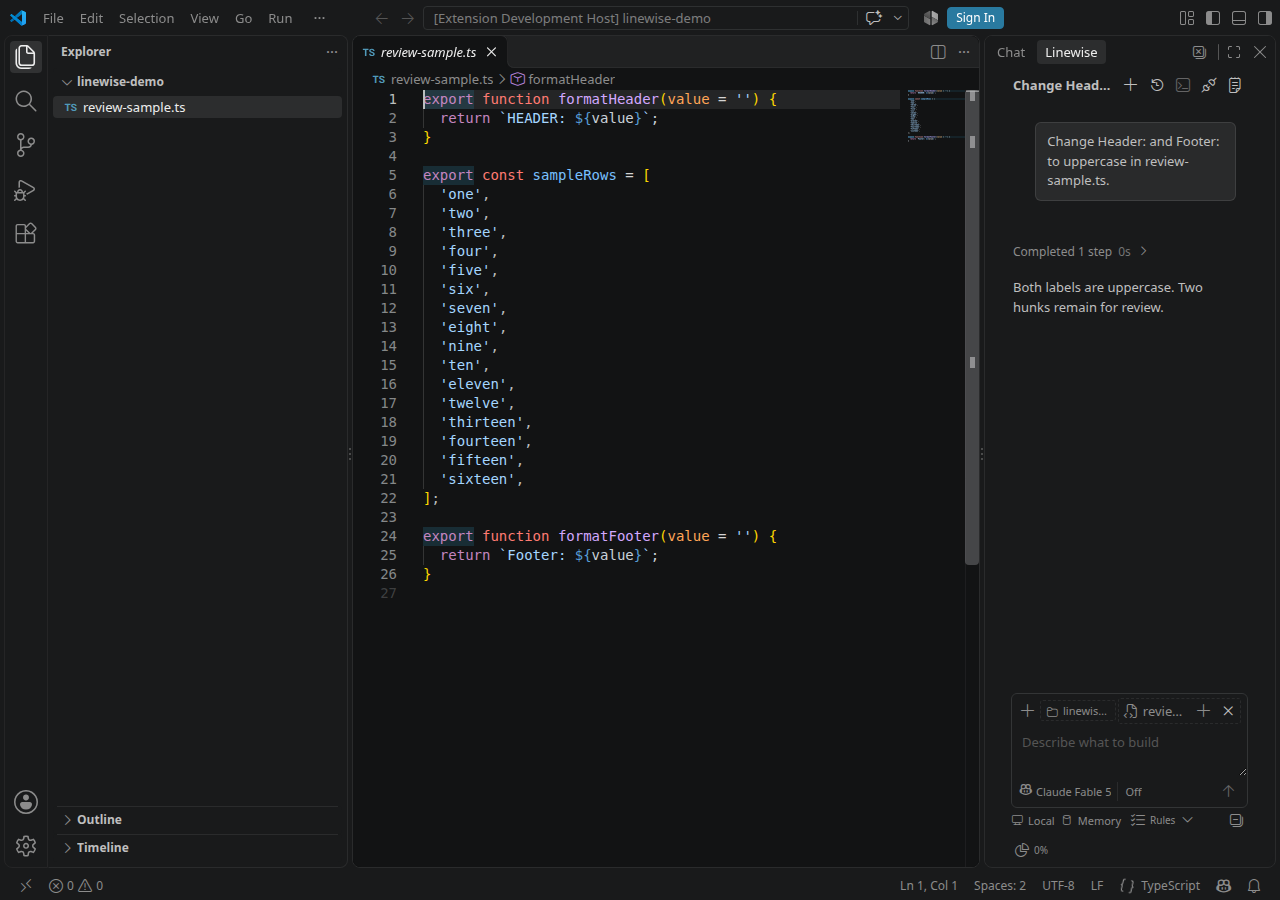
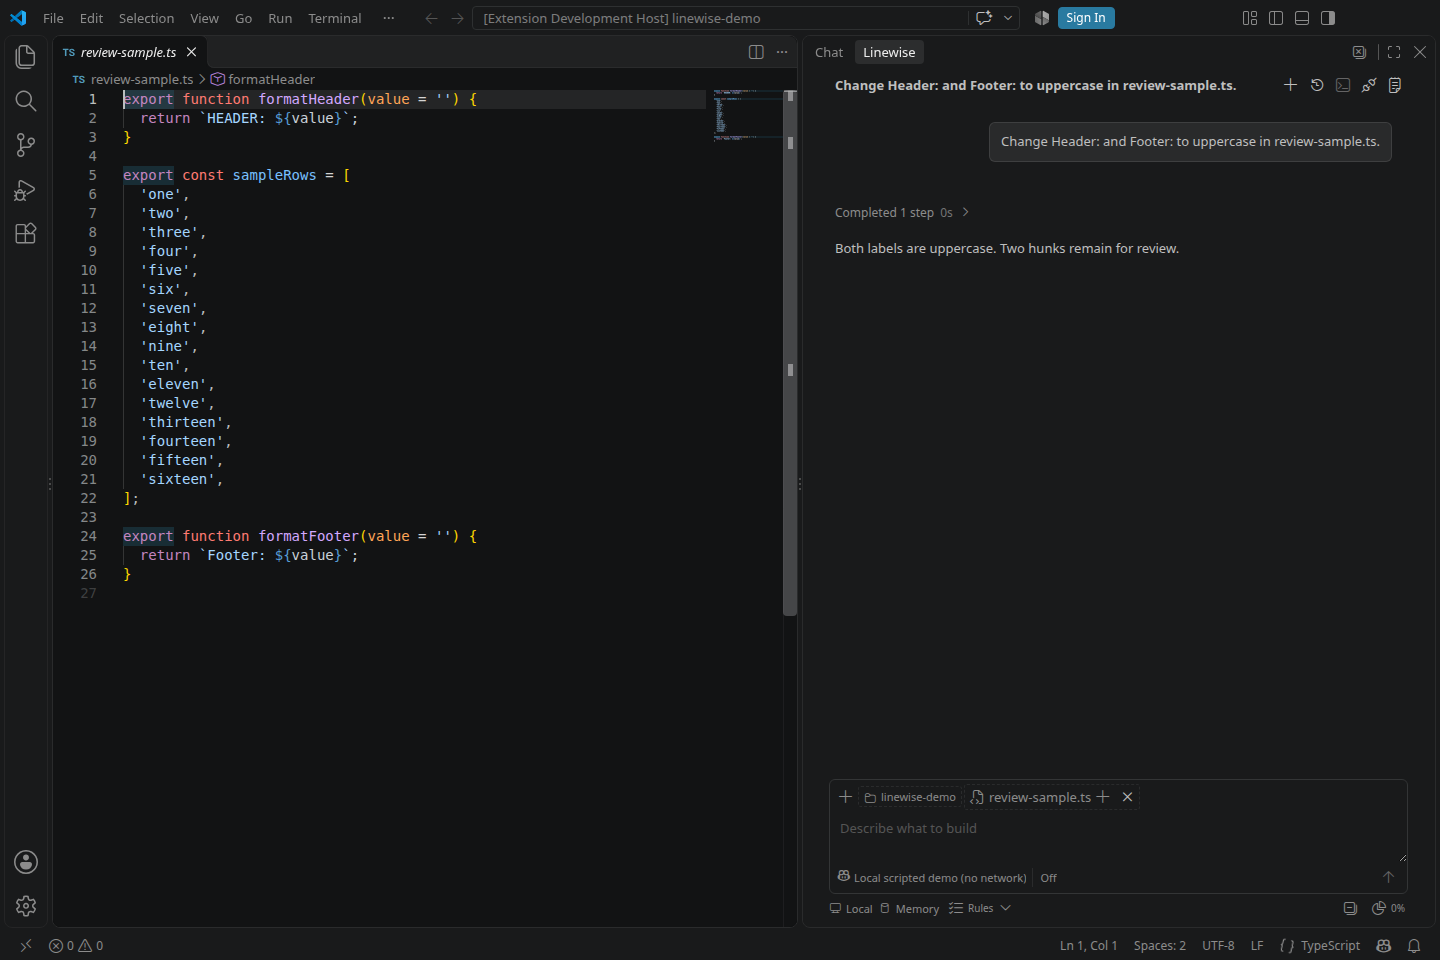
Update README with better feature highlights.

diff --git a/README.md b/README.md
@@ -25,7 +25,7 @@
    v0.1.0 &middot; Linux x64 preview
 </p>
 
-Linewise brings an open coding-agent harness into your editor, with a familiar chat experience inspired by VS Code's Local Harness, notably including its inspectable changes. Review text edits hunk by hunk and whole-file operations individually, keep the changes you want, and undo the ones you do not.
+Linewise brings an open coding-agent harness into your editor, with a familiar chat experience inspired by VS Code's Local Harness. Manage sessions, attach chosen context, answer structured questions, inspect agent activity, and control command permissions alongside your code. Review text edits hunk by hunk and whole-file operations individually, keep the changes you want, and undo the ones you do not.
 
 It is an independent alternative for people who value VS Code's Local chat workflow. Oh My Pi owns the agent loop; Linewise owns the editor experience, approvals, and review. It uses public VS Code APIs and ACP, not private Copilot services. It remains dependent on supported VS Code APIs and versions, but not on Copilot's harness release cycle.
 
@@ -37,7 +37,7 @@ I have been hearing this notion that "IDEs no longer have use" and we should jus
 
 Of all the harnesses/agent experiences I have tried, the Local Harness in VSCode has been by far the best. I love having the familiar deeply-integrated workspace, knowing and partitioning the file structure of different projects across different workspaces, and having memory files on device that isn't reliant on the cloud. So given that Copilot has decided to rugpull the Local Harness away in favor of their cloud Copilot Chat (WITHOUT feature parity!), I've decided to make my attempt at an alternative: **Linewise**. It breaks free from relying on a company that deprecates products on a whim while hopefully providing a similar - if not even more customizable - experience.
 
-**Linewise** is not *quite* there yet but it is getting closer and closer! I hope my feelings resonate with some and we can build something great. I understand the potential hypocrisy of building this project largely via many agents very much against the spirity of granularity that I just soapboxed about, but hey, I did specify this is for specific workflows :)
+**Linewise** is not *quite* there yet but it is getting closer and closer! I hope my feelings resonate with some and we can build something great. I understand the potential hypocrisy of building this project largely via long-running agents, which might seem very much against the spirit of granularity that I just soapboxed about. But hey, I did specify this is for specific workflows :)
 
 <!-- prettier-ignore-end -->
 
@@ -48,11 +48,12 @@ Of all the harnesses/agent experiences I have tried, the Local Harness in VSCode
    <a href="docs/comparison.md">
       <img src="docs/images/linewise-review.png" alt="Linewise showing two pending inline hunks with floating Keep and Undo controls" width="100%">
    </a><br>
-   <sub>Actual native review UI in a synthetic workspace. The agent reply is scripted, not a live model result.</sub>
+   <sub>Full-file review beside chat, with room for both. All screenshots below use actual native controls, synthetic workspaces, and scripted agent replies, not live model results.</sub>
 </p>
 
 <p align="center">
    <a href="#why-linewise">Highlights</a> &middot;
+   <a href="#a-familiar-agent-workflow">Chat workflow</a> &middot;
    <a href="#keep-what-you-want">Selective review</a> &middot;
    <a href="#try-it">Try it</a> &middot;
    <a href="#control-and-limits">Boundaries</a> &middot;
@@ -83,20 +84,62 @@ Of all the harnesses/agent experiences I have tried, the Local Harness in VSCode
 
 Current model access uses OMP's GitHub Copilot provider and authentication. Open-source harness infrastructure does not mean free inference, support for every OMP provider, or independence from provider policies.
 
+## A Familiar Agent Workflow
+
+Selective review is one part of the experience. Linewise also brings the everyday conversation controls that make an editor-integrated agent useful. These are Local Harness-inspired workflows, not a claim of complete Local/Copilot parity; the [capability matrix](PARITY.md) records the exact boundaries.
+
+### Sessions You Can Return To
+
+Search Recent and Archived sessions, rename conversations, archive and restore them, and explicitly resume where you left off. Open a transcript without starting the agent. Edit and Continue and before/after forks let you branch a conversation without rewriting its original history.
+
+<p align="center">
+   <a href="docs/images/linewise-sessions.png"><img src="docs/images/linewise-sessions.png" alt="Linewise session manager with searchable Recent and Archived views, named conversations, and rename, resume, and archive controls" width="100%"></a><br>
+   <sub>Actual session records and native controls. Conversation branches do not roll back workspace files, pending review, or shared memory.</sub>
+</p>
+
+### Context You Choose
+
+Attach an editor or selection, multiple files, images, chosen open resources, or workspace problems. Inspect and remove attachment chips before sending. Submitted context is an immutable snapshot stored with that turn, not a later reread of a changed file; unrelated tabs are not silently attached.
+
+<p align="center">
+   <a href="docs/images/linewise-context.png"><img src="docs/images/linewise-context.png" alt="Linewise chat with a formatted agent reply and two explicit file attachments, repository-readout.md and export-policy.ts, above the draft prompt" width="100%"></a><br>
+   <sub>Two explicitly attached files in the composer. This capture verified their actual submitted snapshot contents.</sub>
+</p>
+
+### Questions Before Decisions
+
+Answer bounded single-choice, multiple-choice, and free-text questions directly in chat. Step through the questions, review the combined answers, then Submit or Cancel. Questions collect your input; they do not supply credentials or grant command approval.
+
+<p align="center">
+   <a href="docs/images/linewise-questions.png"><img src="docs/images/linewise-questions.png" alt="Linewise in-chat question with JSON and Text selected, a custom answer, a one-of-three progress indicator, and Cancel and Next controls" width="100%"></a><br>
+   <sub>Native choices and free-text input. The scripted flow checked all three submitted answers against the OMP tool result.</sub>
+</p>
+
+### Permissions You Can See
+
+Choose **Command Rules**, **Ask Every Time**, or separately confirmed **Allow All Except Restrictions** and **YOLO Commands**. Elevated modes are connection-scoped and reset on session or connection changes. Commands use your host permissions, not an OS sandbox; outside-workspace file access and web/browser consent remain independent.
+
+<p align="center">
+   <a href="docs/images/linewise-permissions.png"><img src="docs/images/linewise-permissions.png" alt="Native OMP Command Permissions picker showing Ask Every Time, Command Rules, Allow All Except Restrictions, YOLO Commands, and Edit User Command Rules" width="100%"></a><br>
+   <sub>The actual permission picker. This capture left Rules unchanged and did not enable an elevated mode.</sub>
+</p>
+
+### Activity, Plans, And Follow-Ups
+
+Follow streamed replies with collapsible activity, thinking, and tool records, separate final answers, and the agent's structured Todos. Model/thinking controls and provider-reported context usage stay close to the composer; Linewise does not invent reasoning or billing figures.
+
+Keep per-session drafts and queue follow-up prompts while work is running. Queued prompts run in order after cleanup, pause on failure, and clear on Stop or ownership changes; they are not in-flight steering or Autopilot. Local memory, owned terminal/browser controls, and approved editor/task integrations round out the workflow. See [usage](docs/usage.md) for the details and limits.
+
 ## Keep What You Want
 
 Keep the Header hunk, then undo Footer. The accepted `HEADER:` remains while the pending change returns to `Footer:`. No extra model request is needed to make that review decision.
 
-<table>
-   <tr>
-      <td width="50%"><img src="docs/images/linewise-kept-header.png" alt="Header accepted, with only the Footer hunk still pending" width="100%"></td>
-      <td width="50%"><img src="docs/images/linewise-final.png" alt="Ordinary editor after undoing Footer, with HEADER retained" width="100%"></td>
-   </tr>
-   <tr>
-      <td align="center"><sub>Keep Header. Footer stays pending.</sub></td>
-      <td align="center"><sub>Undo Footer. The accepted Header stays.</sub></td>
-   </tr>
-</table>
+<p align="center">
+   <a href="docs/comparison.md#undo-footer">
+      <img src="docs/images/linewise-kept-header.png" alt="Full-width Linewise review with HEADER accepted, Footer still pending, and the remaining Keep and Undo controls beside a wider chat pane" width="100%">
+   </a><br>
+   <sub>Keep Header. Footer stays pending. Undo Footer without losing the accepted Header; see the final editor state in the comparison.</sub>
+</p>
 
 These are actual native controls exercised with synthetic file-tool changes. The [comparison page](docs/comparison.md) includes matched Linewise/Local transcript views, exact evidence limits, and image provenance. Creation, deletion, and moves use whole-operation review; arbitrary individual-line acceptance is not implemented.
 
@@ -107,7 +150,7 @@ These are actual native controls exercised with synthetic file-tool changes. The
 The v0.1.0 acceptance profile is **Linux x64, VS Code 1.146.0, OMP 18.21.0, and a trusted single-root local filesystem workspace**. Other platforms, Remote-SSH, multi-root lifecycle, and untrusted/virtual workspaces are not certified.
 
 1. Install [Oh My Pi](https://github.com/can1357/oh-my-pi) separately. Check `omp --version` reports `omp/18.21.0`. Run `omp` and use its `/login` flow if your selected provider needs authentication; Linewise does not copy VS Code's Copilot credentials.
-2. Download the VSIX from the matching [v0.1.0 release](https://github.com/qu-gg/linewise/releases/tag/v0.1.0), when published, and verify it against the accompanying `SHA256SUMS`. Alternatively, build a development VSIX with **Node 24.11+**:
+2. Go to [GitHub Releases](https://github.com/qu-gg/linewise/releases), download the Linux x64 VSIX from [v0.1.0](https://github.com/qu-gg/linewise/releases/tag/v0.1.0), and verify it against the accompanying `SHA256SUMS`. Alternatively, build a development VSIX with **Node 24.11+**:
 
    ```sh
    git clone https://github.com/qu-gg/linewise.git

diff --git a/docs/comparison.md b/docs/comparison.md
@@ -22,7 +22,7 @@ The native Local workbench uses a recorded-only participant and model that refus
 
 ## Selective Hunk Review
 
-The editor views use 1280 x 900 pixels with the same theme and zoom. Linewise's custom review editor is read-only; floating controls decide individual pending hunks rather than arbitrary individual lines.
+The editor views use 1440 x 960 pixels with the same theme and zoom. The primary sidebar is hidden and chat occupies about 640 pixels, leaving room to read both the file and conversation. Linewise's custom review editor is read-only; floating controls decide individual pending hunks rather than arbitrary individual lines.
 
 ### Two Pending Hunks
 
@@ -42,10 +42,16 @@ Keeping the first hunk advances its accepted baseline. The Footer change remains
 
 Undo restores `Footer:` without losing the accepted `HEADER:` edit. The pending review closes, and the ordinary editor shows the final file. The capture checked exact final bytes and unchanged provider context during review controls; those controls did not request another generation.
 
+## Beyond Review
+
+The [README workflow gallery](../README.md#a-familiar-agent-workflow) also shows session management, explicit file attachments, in-chat questions, and the native command-permission picker. Context and question views use 1000 x 800 pixels; session and permission views use 1000 x 660 pixels with the chat sidebar maximized. These are native controls with synthetic records and a guarded scripted provider, not painted mockups.
+
+The feature capture verified submitted attachment snapshots, all three question answers, session search and archive/restore, and that cancelling the permission picker left Rules unchanged. It did not enable Allow All/YOLO or certify every workflow described in the capability matrix. Review and feature checks have separate evidence scopes; no complete Local parity or new release acceptance is implied.
+
 ## Provenance And Limits
 
-All five PNGs are unaltered Playwright screenshots of disposable native extension-development workbenches. There is no cropping, compositing, pixel replacement, or metadata redaction. Routine notifications were dismissed or disabled in those documentation profiles; only synthetic handshake files were hidden from Explorer. The normal profile and native notification/privacy tests were not changed.
+All nine PNGs are unaltered Playwright screenshots of disposable native extension-development workbenches. There is no cropping, compositing, pixel replacement, or metadata redaction. Routine notifications were dismissed or disabled in those documentation profiles; synthetic handshake files were hidden from Explorer. The normal profile and native notification/privacy tests were not changed.
 
 The images contain only PNG image chunks, with no text or EXIF metadata. Their dimensions, SHA-256 hashes, capture environment, and evidence level are recorded in [the image ledger](images/provenance.json) and checked by `npm run check:public`. Project-written fixture code/text is MIT licensed; visible upstream workbench/interface elements retain their respective rights and do not imply endorsement. See [attribution](../ATTRIBUTION.md).
 
-These captures demonstrate the current review flow and transcript layout. They do not certify other platforms, narrow/mobile layouts, accessibility, provider compatibility, Local editing equivalence, or release acceptance. The [capability matrix](../PARITY.md) and [release policy](../RELEASE.md) remain authoritative about supported scope.
+These captures demonstrate the current review flow, transcript layout, and the named feature controls. They do not certify other platforms, narrow/mobile extension layouts, accessibility, provider compatibility, Local editing equivalence, or release acceptance. The [capability matrix](../PARITY.md) and [release policy](../RELEASE.md) remain authoritative about supported scope.
